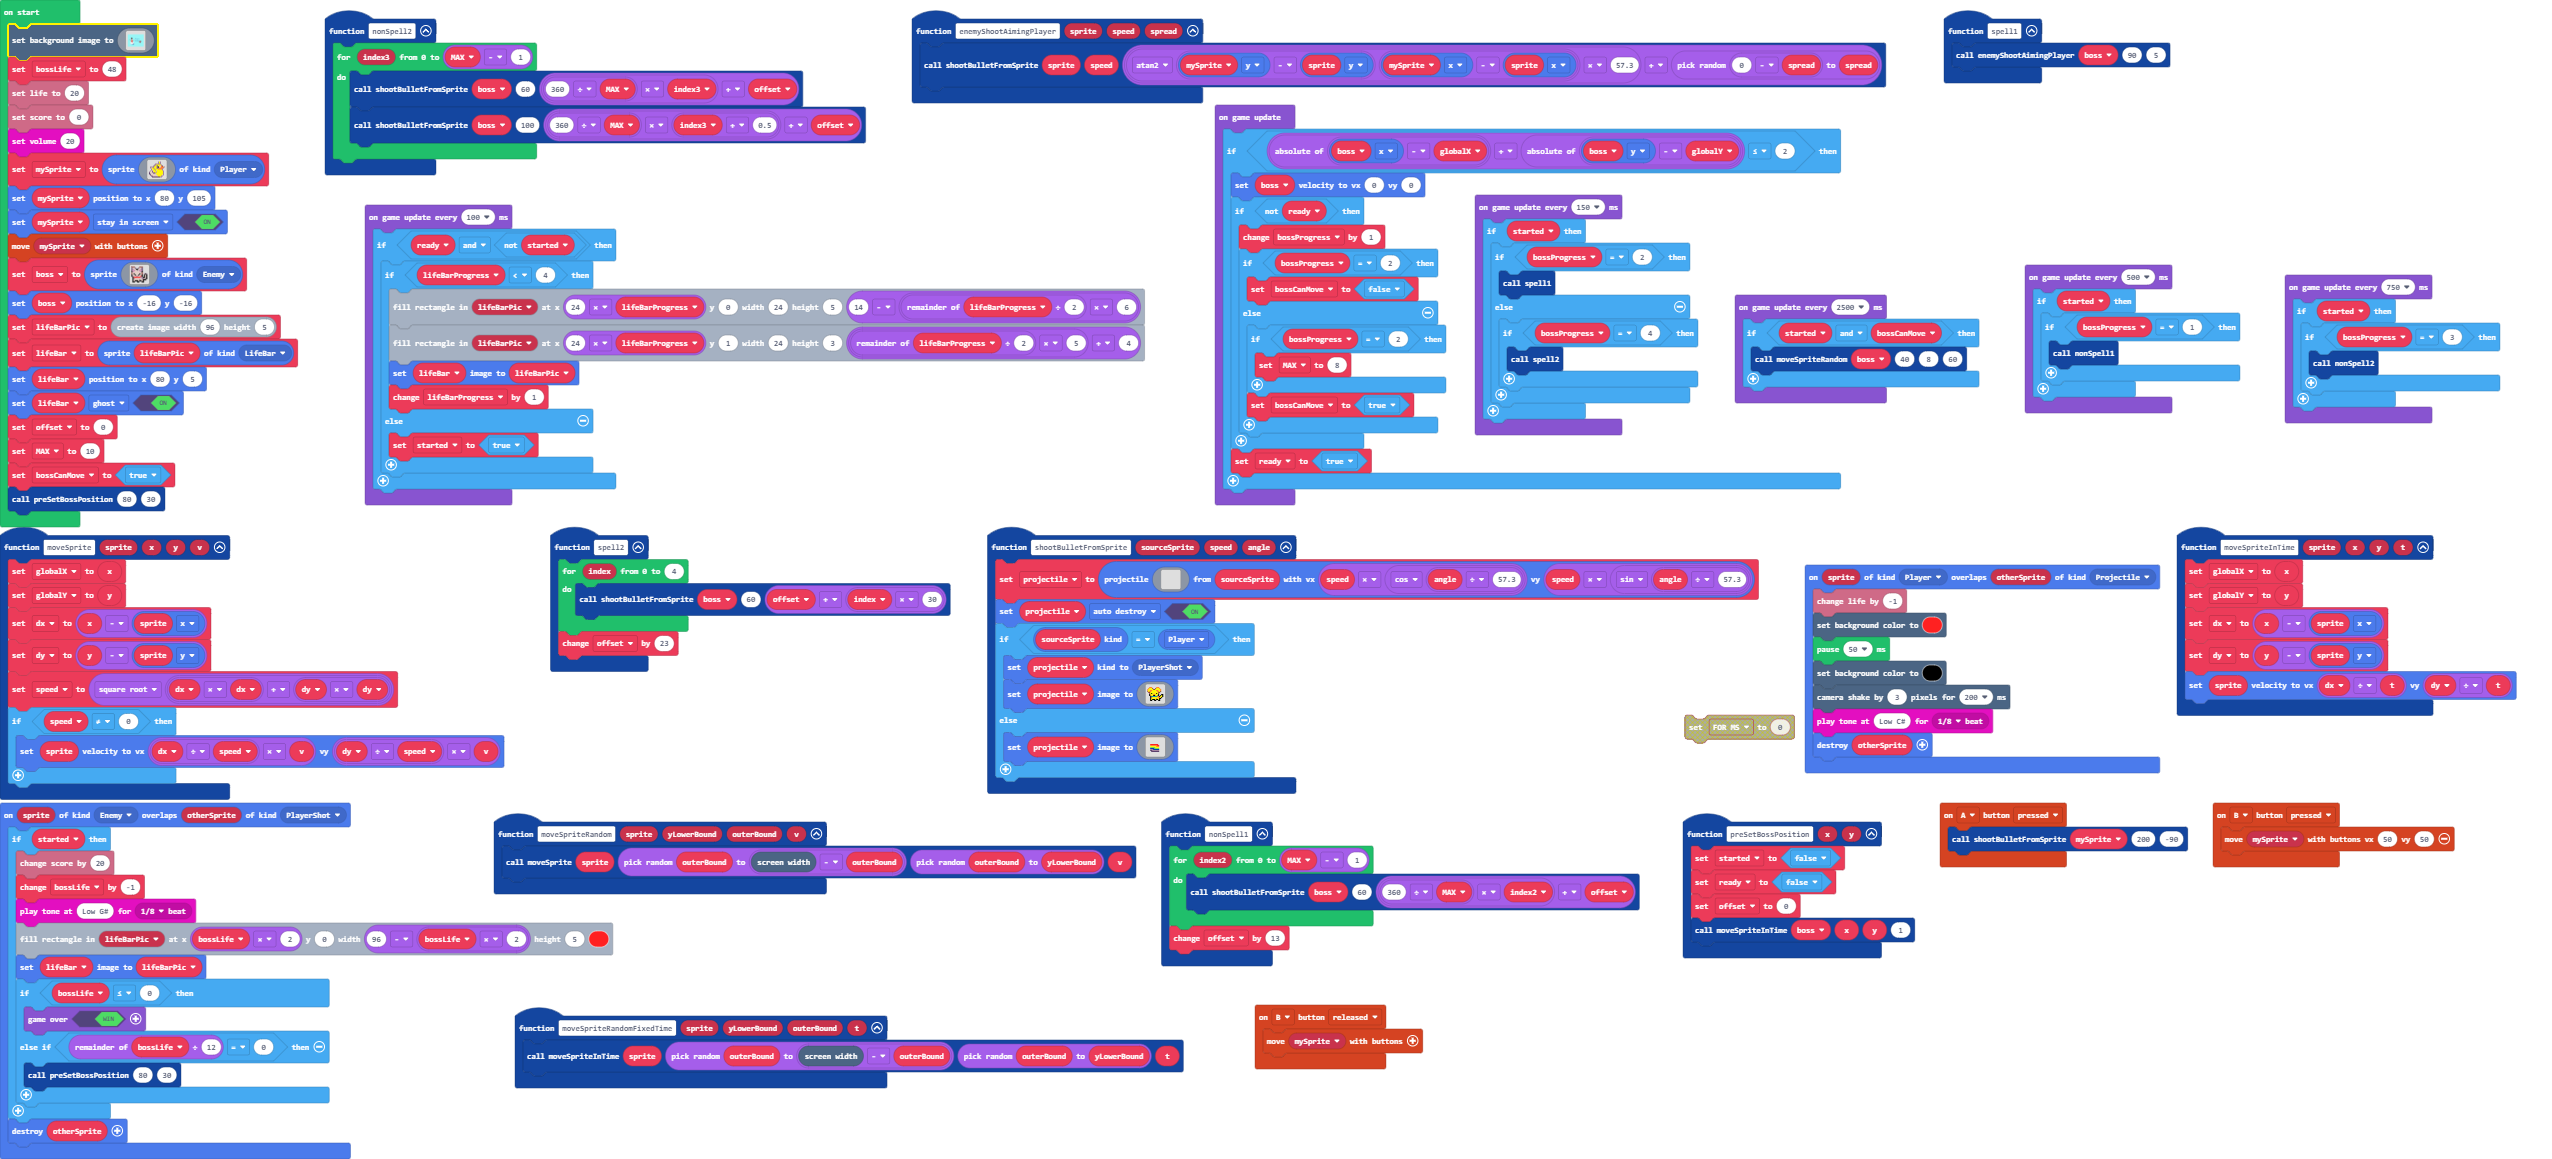
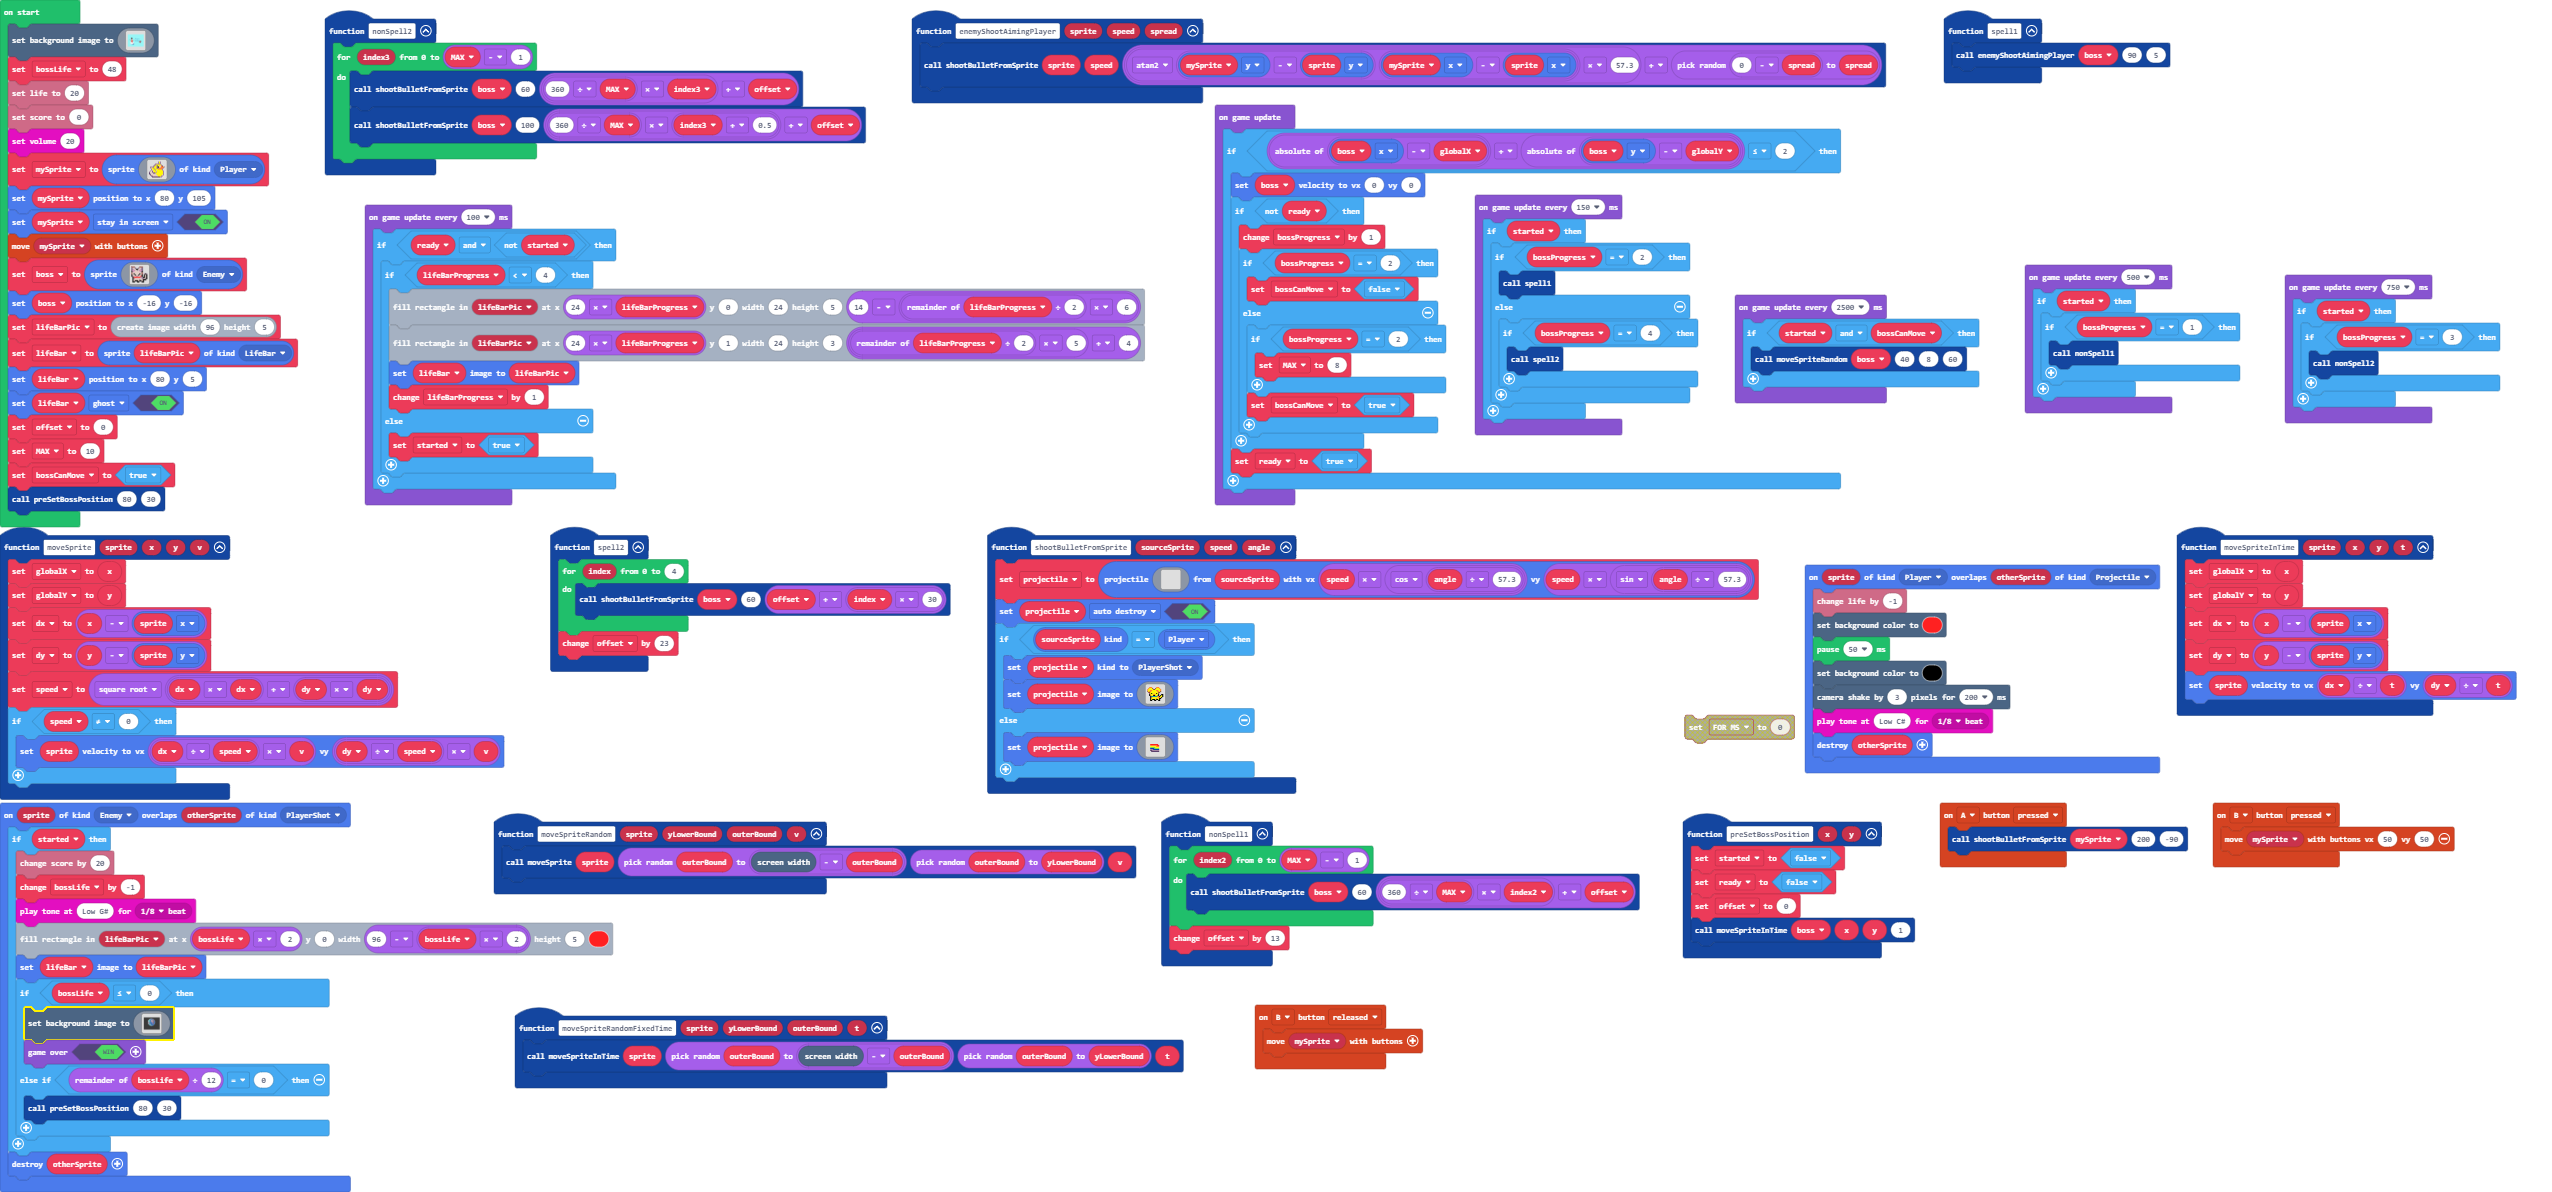
Update main.blocks, main.ts

Changed region(s): [[0.0, 0.0, 0.9906, 0.994], [0.7739, 0.0, 0.8668, 0.0621]]

diff --git a/main.ts b/main.ts
@@ -17,6 +17,128 @@ sprites.onOverlap(SpriteKind.Enemy, SpriteKind.PlayerShot, function (sprite, oth
         lifeBarPic.fillRect(bossLife * 2, 0, 96 - bossLife * 2, 5, 2)
         lifeBar.setImage(lifeBarPic)
         if (bossLife <= 0) {
+            scene.setBackgroundImage(img`
+                ffffffffffffffffffffffffffffffffffffffffffffffffffffffffffffffffffffffffffffffffffffffffffffffffffffffffffffffffffffffffffffffffffffffffffffffffffffffffffffffff
+                ffffffffffffffffffffffffffffffffffffffffffffffffffffffffffffffffffffffffffffffffffffffffffffffffffffffffffffffffffffffffffffffffffffffffffffffffffffffffffffffff
+                ffffffffffffffffffffffffffffffffffffffffffffffffffffffffffffffffffffffffffffffffffffffffffffffffffffffffffffffffffffffffffffffffffffffffffffffffffffffffffffffff
+                ffffffffffffffffffffffffffffffffffffffffffffffffffffffffffffffffffffffffffffffffffffffffffffffffffffffffffffffffffffffffffffffffffffffffffffffffffffffffffffffff
+                ffffffffffffffffffffffffffffffffffffffffffffffffffffffffffffffffffffffffffffffffffffffffffffffffffffffffffffffffffffffffffffffffffffffffffffffffffffffffffffffff
+                ffffffffffffffffffffffffffffffffffffffffffffffffffffffffffffffffffffffffffffffffffffffffffffffffffffffffffffffffffffffffffffffffffffffffffffffffffffffffffffffff
+                ffffffffffffffffffffffffffffffffffffffffffffffffffffffffffffffffffffffffffffffffffffffffffffffffffffffffffffffffffffffffffffffffffffffffffffffffffffffffffffffff
+                ffffffffffffffffffffffffffffffffffffffffffffffffffffffffffffffffffffffffffffffffffffffffffffffffffffffffffffffffffffffffffffffffffffffffffffffffffffffffffffffff
+                ffffffffffffffffffffffffffffffffffffffffffffffffffffffffffffffffffffffffffffffffffffffffffffffffffffffffffffffffffffffffffffffffffffffffffffffffffffffffffffffff
+                ffffffffffffffffffffffffffffffffffffffffffffffffffffffffffffffffffffffffffffffffffffffffffffffffffffffffffffffffffffffffffffffffffffffffffffffffffffffffffffffff
+                ffffffffffffffffffffffffffffffffffffffffffffffffffffffffffffffffffffffffffffffffffffffffffffffffffffffffffffffffffffffffffffffffffffffffffffffffffffffffffffffff
[73 lines of base64/hex data omitted]
+                ffffffffffffffffffffffffffffffffffffffffffffffffffffffffffffffffffffffffffffffffffffffffffffffffffffffffffffffffffffffffffffffffffffffffffffffffffffffffffffffff
+                ffffffffffffffffffffffffffffffffffffffffffffffffffffffffffffffffffffffffffffffffffffffffffffffffffffffffffffffffffffffffffffffffffffffffffffffffffffffffffffffff
+                ffffffffffffffffffffffffffffffffffffffffffffffffffffffffffffffffffffffffffffffffffffffffffffffffffffffffffffffffffffffffffffffffffffffffffffffffffffffffffffffff
+                ffffffffffffffffffffffffffffffffffffffffffffffffffffffffffffffffffffffffffffffffffffffffffffffffffffffffffffffffffffffffffffffffffffffffffffffffffffffffffffffff
+                ffffffffffffffffffffffffffffffffffffffffffffffffffffffffffffffffffffffffffffffffffffffffffffffffffffffffffffffffffffffffffffffffffffffffffffffffffffffffffffffff
+                ffffffffffffffffffffffffffffffffffffffffffffffffffffffffffffffffffffffffffffffffffffffffffffffffffffffffffffffffffffffffffffffffffffffffffffffffffffffffffffffff
+                ffffffffffffffffffffffffffffffffffffffffffffffffffffffffffffffffffffffffffffffffffffffffffffffffffffffffffffffffffffffffffffffffffffffffffffffffffffffffffffffff
+                ffffffffffffffffffffffffffffffffffffffffffffffffffffffffffffffffffffffffffffffffffffffffffffffffffffffffffffffffffffffffffffffffffffffffffffffffffffffffffffffff
+                ffffffffffffffffffffffffffffffffffffffffffffffffffffffffffffffffffffffffffffffffffffffffffffffffffffffffffffffffffffffffffffffffffffffffffffffffffffffffffffffff
+                ffffffffffffffffffffffffffffffffffffffffffffffffffffffffffffffffffffffffffffffffffffffffffffffffffffffffffffffffffffffffffffffffffffffffffffffffffffffffffffffff
+                ffffffffffffffffffffffffffffffffffffffffffffffffffffffffffffffffffffffffffffffffffffffffffffffffffffffffffffffffffffffffffffffffffffffffffffffffffffffffffffffff
+                ffffffffffffffffffffffffffffffffffffffffffffffffffffffffffffffffffffffffffffffffffffffffffffffffffffffffffffffffffffffffffffffffffffffffffffffffffffffffffffffff
+                ffffffffffffffffffffffffffffffffffffffffffffffffffffffffffffffffffffffffffffffffffffffffffffffffffffffffffffffffffffffffffffffffffffffffffffffffffffffffffffffff
+                ffffffffffffffffffffffffffffffffffffffffffffffffffffffffffffffffffffffffffffffffffffffffffffffffffffffffffffffffffffffffffffffffffffffffffffffffffffffffffffffff
+                ffffffffffffffffffffffffffffffffffffffffffffffffffffffffffffffffffffffffffffffffffffffffffffffffffffffffffffffffffffffffffffffffffffffffffffffffffffffffffffffff
+                ffffffffffffffffffffffffffffffffffffffffffffffffffffffffffffffffffffffffffffffffffffffffffffffffffffffffffffffffffffffffffffffffffffffffffffffffffffffffffffffff
+                ffffffffffffffffffffffffffffffffffffffffffffffffffffffffffffffffffffffffffffffffffffffffffffffffffffffffffffffffffffffffffffffffffffffffffffffffffffffffffffffff
+                ffffffffffffffffffffffffffffffffffffffffffffffffffffffffffffffffffffffffffffffffffffffffffffffffffffffffffffffffffffffffffffffffffffffffffffffffffffffffffffffff
+                ffffffffffffffffffffffffffffffffffffffffffffffffffffffffffffffffffffffffffffffffffffffffffffffffffffffffffffffffffffffffffffffffffffffffffffffffffffffffffffffff
+                ffffffffffffffffffffffffffffffffffffffffffffffffffffffffffffffffffffffffffffffffffffffffffffffffffffffffffffffffffffffffffffffffffffffffffffffffffffffffffffffff
+                ffffffffffffffffffffffffffffffffffffffffffffffffffffffffffffffffffffffffffffffffffffffffffffffffffffffffffffffffffffffffffffffffffffffffffffffffffffffffffffffff
+                ffffffffffffffffffffffffffffffffffffffffffffffffffffffffffffffffffffffffffffffffffffffffffffffffffffffffffffffffffffffffffffffffffffffffffffffffffffffffffffffff
+                ffffffffffffffffffffffffffffffffffffffffffffffffffffffffffffffffffffffffffffffffffffffffffffffffffffffffffffffffffffffffffffffffffffffffffffffffffffffffffffffff
+                ffffffffffffffffffffffffffffffffffffffffffffffffffffffffffffffffffffffffffffffffffffffffffffffffffffffffffffffffffffffffffffffffffffffffffffffffffffffffffffffff
+                ffffffffffffffffffffffffffffffffffffffffffffffffffffffffffffffffffffffffffffffffffffffffffffffffffffffffffffffffffffffffffffffffffffffffffffffffffffffffffffffff
+                ffffffffffffffffffffffffffffffffffffffffffffffffffffffffffffffffffffffffffffffffffffffffffffffffffffffffffffffffffffffffffffffffffffffffffffffffffffffffffffffff
+                ffffffffffffffffffffffffffffffffffffffffffffffffffffffffffffffffffffffffffffffffffffffffffffffffffffffffffffffffffffffffffffffffffffffffffffffffffffffffffffffff
+                ffffffffffffffffffffffffffffffffffffffffffffffffffffffffffffffffffffffffffffffffffffffffffffffffffffffffffffffffffffffffffffffffffffffffffffffffffffffffffffffff
+                ffffffffffffffffffffffffffffffffffffffffffffffffffffffffffffffffffffffffffffffffffffffffffffffffffffffffffffffffffffffffffffffffffffffffffffffffffffffffffffffff
+                ffffffffffffffffffffffffffffffffffffffffffffffffffffffffffffffffffffffffffffffffffffffffffffffffffffffffffffffffffffffffffffffffffffffffffffffffffffffffffffffff
+                ffffffffffffffffffffffffffffffffffffffffffffffffffffffffffffffffffffffffffffffffffffffffffffffffffffffffffffffffffffffffffffffffffffffffffffffffffffffffffffffff
+                ffffffffffffffffffffffffffffffffffffffffffffffffffffffffffffffffffffffffffffffffffffffffffffffffffffffffffffffffffffffffffffffffffffffffffffffffffffffffffffffff
+                ffffffffffffffffffffffffffffffffffffffffffffffffffffffffffffffffffffffffffffffffffffffffffffffffffffffffffffffffffffffffffffffffffffffffffffffffffffffffffffffff
+                ffffffffffffffffffffffffffffffffffffffffffffffffffffffffffffffffffffffffffffffffffffffffffffffffffffffffffffffffffffffffffffffffffffffffffffffffffffffffffffffff
+                ffffffffffffffffffffffffffffffffffffffffffffffffffffffffffffffffffffffffffffffffffffffffffffffffffffffffffffffffffffffffffffffffffffffffffffffffffffffffffffffff
+                ffffffffffffffffffffffffffffffffffffffffffffffffffffffffffffffffffffffffffffffffffffffffffffffffffffffffffffffffffffffffffffffffffffffffffffffffffffffffffffffff
+                `)
             game.over(true)
         } else if (bossLife % 12 == 0) {
             preSetBossPosition(80, 30)
